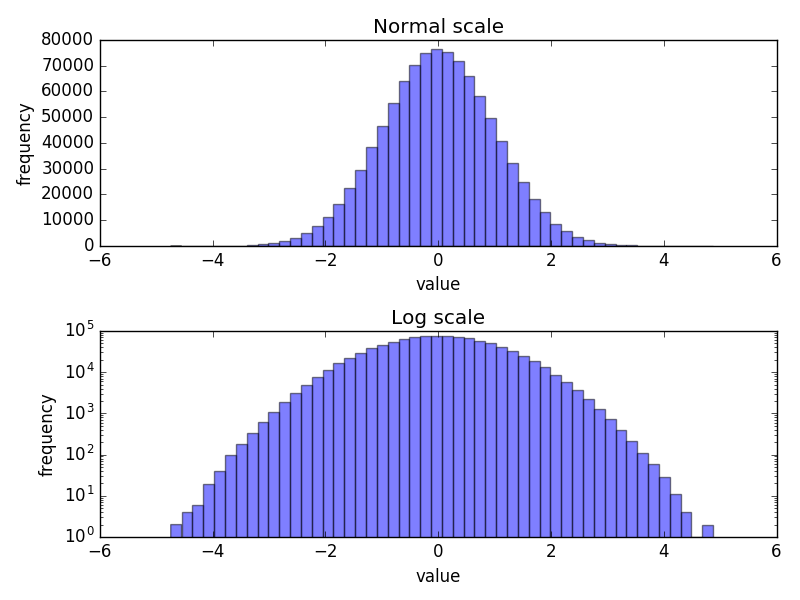
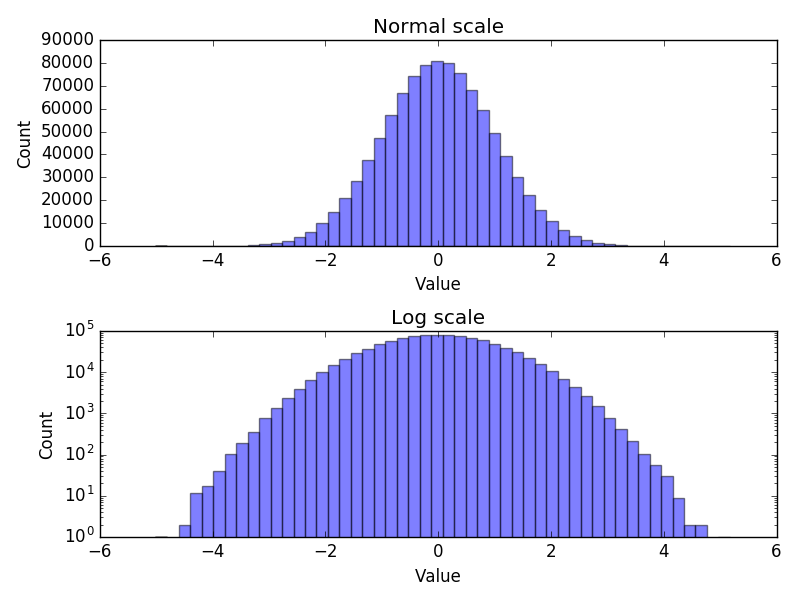
Misc updates.

diff --git a/python/matplotlib/hist_logscale_y.py b/python/matplotlib/hist_logscale_y.py
@@ -31,8 +31,8 @@ res_tuple = ax1.hist(gaussian_numbers_array,
                      alpha=ALPHA)
 
 ax1.set_title("Normal scale")
-ax1.set_xlabel("value")
-ax1.set_ylabel("frequency")
+ax1.set_xlabel("Value")
+ax1.set_ylabel("Count")
 
 # AX2 #########################################################################
 
@@ -45,8 +45,8 @@ res_tuple = ax2.hist(gaussian_numbers_array,
                      alpha=ALPHA)
 
 ax2.set_title("Log scale")
-ax2.set_xlabel("value")
-ax2.set_ylabel("frequency")
+ax2.set_xlabel("Value")
+ax2.set_ylabel("Count")
 
 # SHOW AND SAVE FILE ##########################################################
 
